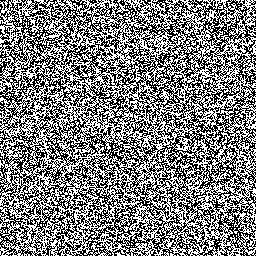
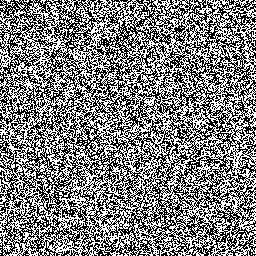
Use latest

diff --git a/port/src/dither/common.rs b/port/src/dither/common.rs
@@ -246,14 +246,14 @@ pub fn wang_hash(mut x: u32) -> u32 {
 
 /// Lowbias32 hash - optimized for low bias, excellent for coordinate-based hashing.
 /// Better spectral properties than wang_hash for spatial randomization.
-/// This is the improved version with bias 0.108 (vs 0.174 for the original).
+/// This is the improved version with bias 0.107 (vs 0.174 for the original).
 /// Reference: https://github.com/skeeto/hash-prospector/issues/19
 #[inline]
 pub fn lowbias32(mut x: u32) -> u32 {
     x ^= x >> 16;
     x = x.wrapping_mul(0x21f0aaad);
     x ^= x >> 15;
-    x = x.wrapping_mul(0xd35a2d97);
+    x = x.wrapping_mul(0x735a2d97);
     x ^= x >> 15;
     x
 }

diff --git a/tools/generate_rng_noise.py b/tools/generate_rng_noise.py
@@ -93,12 +93,12 @@ def lowbias32_old(seed: np.uint32) -> np.uint32:
 
 
 def lowbias32(seed: np.uint32) -> np.uint32:
-    """Improved lowbias32 (bias 0.108) - better spectral properties."""
+    """Improved lowbias32 (bias 0.107) - better spectral properties."""
     seed = np.uint32(seed)
     seed ^= seed >> np.uint32(16)
     seed = seed * np.uint32(0x21f0aaad)
     seed ^= seed >> np.uint32(15)
-    seed = seed * np.uint32(0xd35a2d97)
+    seed = seed * np.uint32(0x735a2d97)
     seed ^= seed >> np.uint32(15)
     return seed
 
